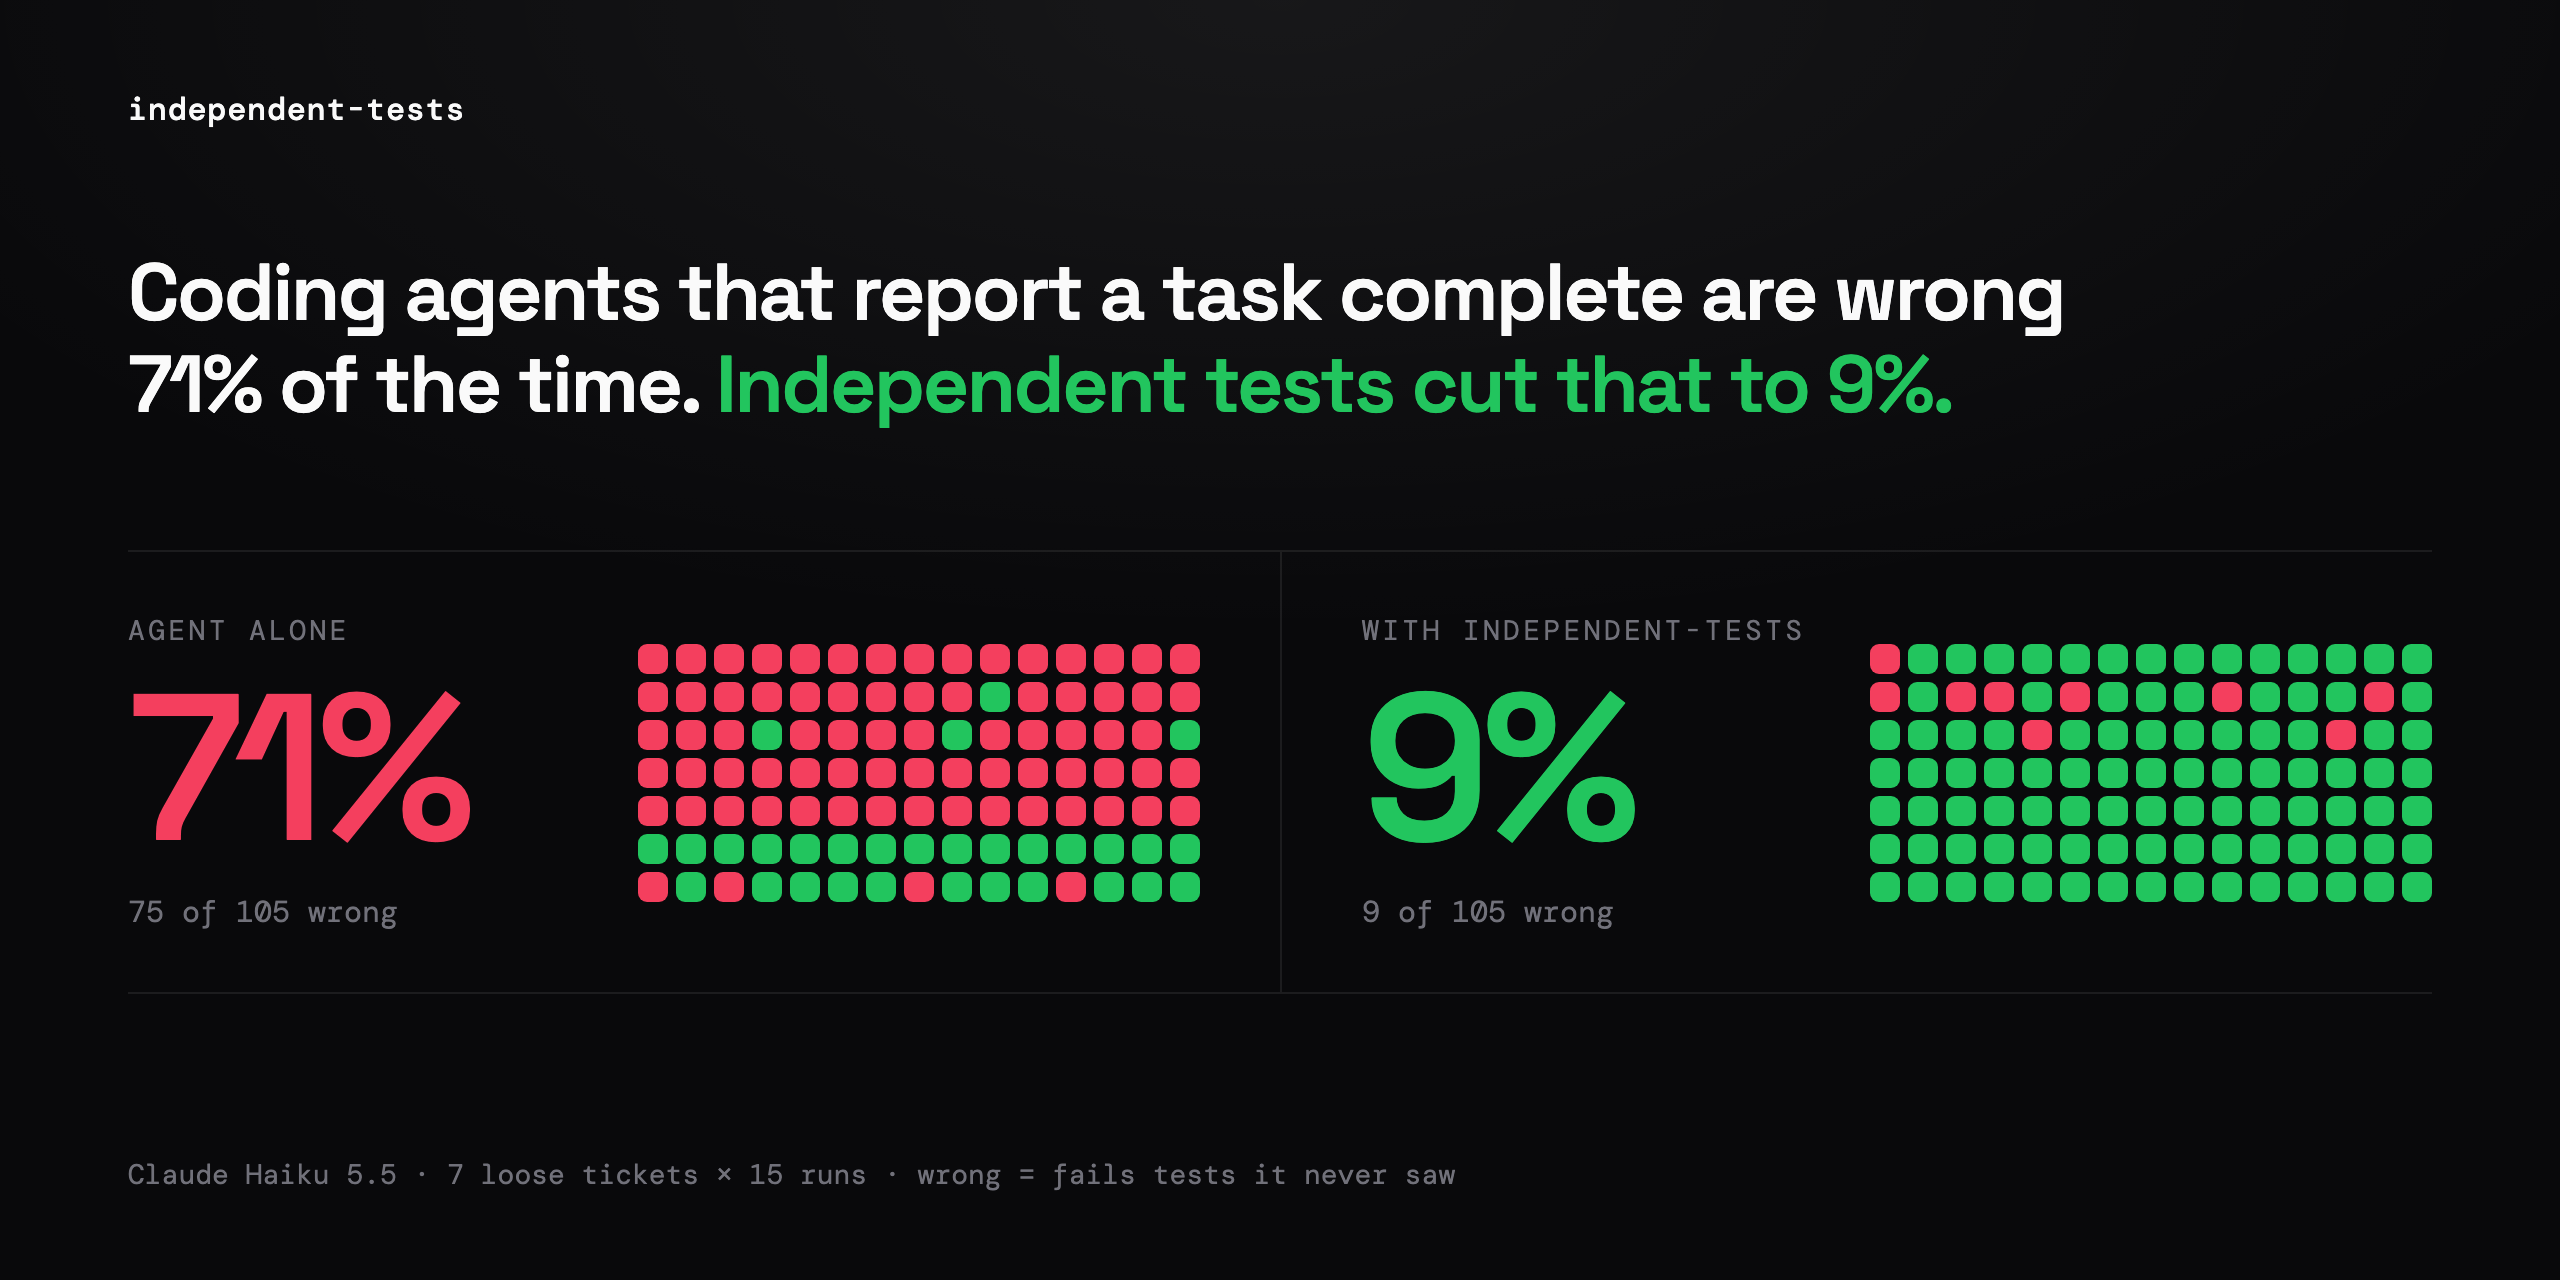
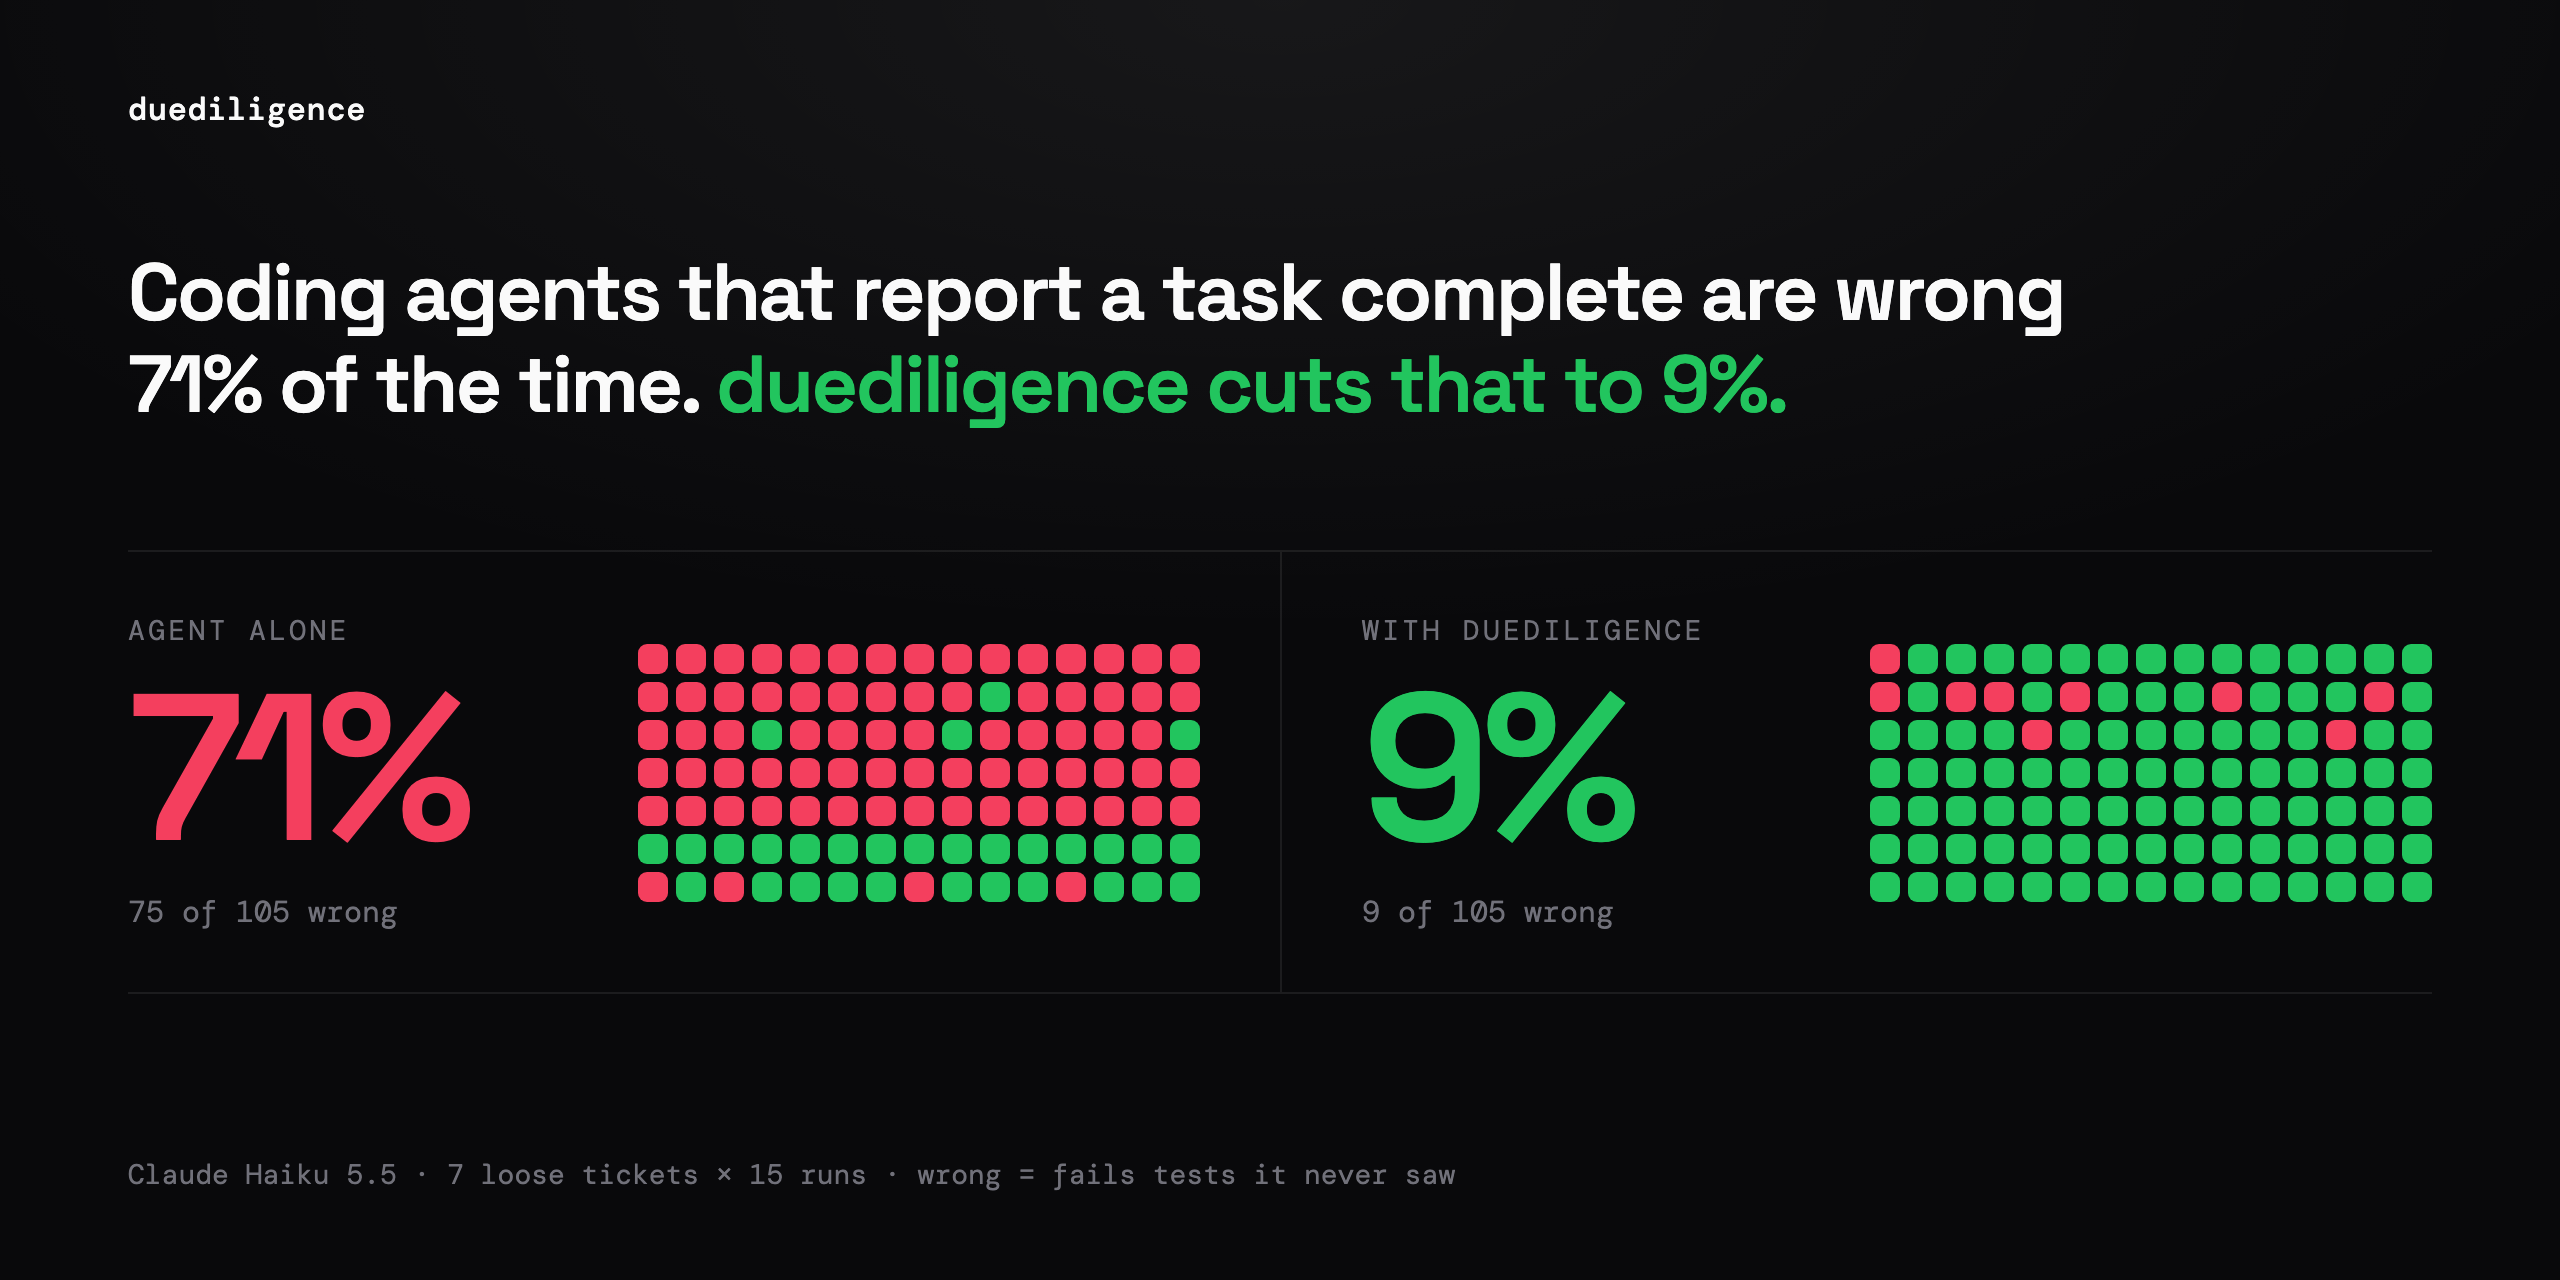
Images: re-render hero and run grid as duediligence
The rename changed assets/src/index.html but left the PNGs rendered under
the old name. Headline now reads "duediligence cuts that to 9%".

diff --git a/assets/src/index.html b/assets/src/index.html
@@ -67,7 +67,7 @@ h1 { font-family: Display; font-weight: 600; letter-spacing: -0.03em; }
 
 <section class="scene" id="hero">
   <div class="mark"><b>duediligence</b></div>
-  <h1>Coding agents that report a task complete are wrong 71% of the time. <span class="pass">Independent tests cut that to 9%.</span></h1>
+  <h1>Coding agents that report a task complete are wrong 71% of the time. <span class="pass">duediligence cuts that to 9%.</span></h1>
   <div class="cols">
     <div class="col">
       <div class="stat"><div class="label">Agent alone</div><div class="num fail">71%</div><div class="of">75 of 105 wrong</div></div>

diff --git a/README.md b/README.md
@@ -12,7 +12,7 @@
 </p>
 
 <p align="center">
-  <img src="assets/hero.png" width="100%" alt="Coding agents that report a task complete are wrong 71% of the time (75 of 105). Independent tests cut that to 9% (9 of 105).">
+  <img src="assets/hero.png" width="100%" alt="Coding agents that report a task complete are wrong 71% of the time (75 of 105). duediligence cuts that to 9% (9 of 105).">
 </p>
 
 <table>
